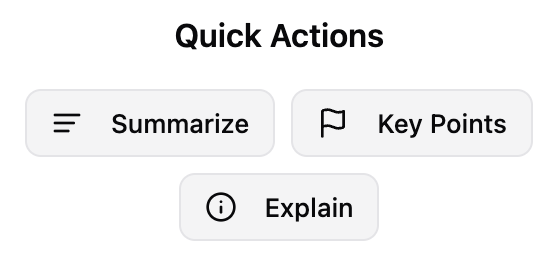
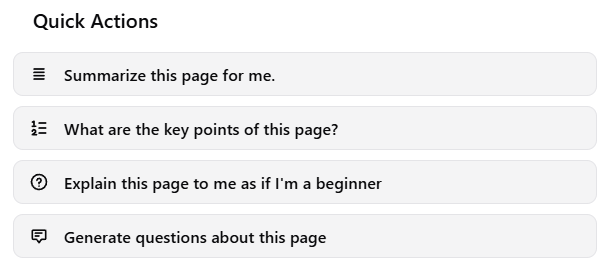
Update README.md

diff --git a/extension/scripts/components/state.js b/extension/scripts/components/state.js
@@ -188,7 +188,7 @@ export async function saveConfig(config) {
 export async function getNotesForUrl(url, offset = 0, limit = 20) {
   try {
     const timestamp = Date.now();
-    const apiUrl = `https://dev-capstone-2025.coccoc.com/api/notes?page_url=${encodeURIComponent(
+    const apiUrl = `http://localhost:3000/api/notes?page_url=${encodeURIComponent(
       url
     )}&offset=${offset}&limit=${limit}&_t=${timestamp}`;
 
@@ -219,7 +219,7 @@ export async function getAllNotes(offset = 0, limit = 20) {
   try {
     // Add timestamp để tránh cache
     const timestamp = Date.now();
-    const apiUrl = `https://dev-capstone-2025.coccoc.com/api/notes/all?offset=${offset}&limit=${limit}&_t=${timestamp}`;
+    const apiUrl = `http://localhost:3000/api/notes/all?offset=${offset}&limit=${limit}&_t=${timestamp}`;
 
     const response = await sendRequest(apiUrl);
 
@@ -246,16 +246,13 @@ export async function getAllNotes(offset = 0, limit = 20) {
 
 export async function saveNote(note) {
   try {
-    const response = await sendRequest(
-      "https://dev-capstone-2025.coccoc.com/api/notes",
-      {
-        method: "POST",
-        body: {
-          page_url: note.url,
-          note: note.content,
-        },
-      }
-    );
+    const response = await sendRequest("http://localhost:3000/api/notes", {
+      method: "POST",
+      body: {
+        page_url: note.url,
+        note: note.content,
+      },
+    });
     return response.data.id;
   } catch (error) {
     console.error("Error saving note:", error);
@@ -266,7 +263,7 @@ export async function saveNote(note) {
 export async function updateNote(id, content) {
   try {
     const response = await sendRequest(
-      `https://dev-capstone-2025.coccoc.com/api/notes/${id}`,
+      `http://localhost:3000/api/notes/${id}`,
       {
         method: "PUT",
         body: {
@@ -284,7 +281,7 @@ export async function updateNote(id, content) {
 export async function deleteNote(id) {
   try {
     const response = await sendRequest(
-      `https://dev-capstone-2025.coccoc.com/api/notes/${id}`,
+      `http://localhost:3000/api/notes/${id}`,
       {
         method: "DELETE",
       }

diff --git a/extension/scripts/components/anon-handler.js b/extension/scripts/components/anon-handler.js
@@ -11,16 +11,13 @@ export async function getFingerprint() {
 
 // Requests a new anon session from the server
 async function requestAnonSession(visitorId) {
-  const response = await sendRequest(
-    "https://dev-capstone-2025.coccoc.com/api/anon",
-    {
-      method: "POST",
-      headers: {
-        visitor: visitorId,
-      },
-      withSession: false,
-    }
-  );
+  const response = await sendRequest("http://localhost:3000/api/anon", {
+    method: "POST",
+    headers: {
+      visitor: visitorId,
+    },
+    withSession: false,
+  });
 
   return response.data;
 }

diff --git a/extension/scripts/components/ui-handler.js b/extension/scripts/components/ui-handler.js
@@ -521,13 +521,10 @@ async function showFeedbackModal(messageId) {
     });
 
     try {
-      const response = await sendRequest(
-        `https://dev-capstone-2025.coccoc.com/api/feedback`,
-        {
-          method: "POST",
-          body: { stars, comment, message_id: parseInt(messageId) },
-        }
-      );
+      const response = await sendRequest(`http://localhost:3000/api/feedback`, {
+        method: "POST",
+        body: { stars, comment, message_id: parseInt(messageId) },
+      });
 
       if (response.success) {
         updateToast(toastId, {

diff --git a/extension/scripts/components/auth-handler.js b/extension/scripts/components/auth-handler.js
@@ -2,7 +2,7 @@ import { clearUserSession, getAnonSession, getUserSession } from "./state.js";
 
 const GOOGLE_AUTH_URL = "https://accounts.google.com/o/oauth2/auth";
 const FACEBOOK_AUTH_URL = "https://www.facebook.com/v22.0/dialog/oauth";
-const SERVER_URL = "https://dev-capstone-2025.coccoc.com";
+const SERVER_URL = "http://localhost:3000";
 
 /**
  * Checks if the user is authenticated and if the session is valid.

diff --git a/extension/scripts/components/caption-handler.js b/extension/scripts/components/caption-handler.js
@@ -1,8 +1,8 @@
 import { sendRequest } from "./state.js";
 import idbHandler from "./idb-handler.js";
 
-const SERVER_URL = "https://dev-capstone-2025.coccoc.com";
-// const SERVER_URL = "https://dev-capstone-2025.coccoc.com";
+const SERVER_URL = "http://localhost:3000";
+// const SERVER_URL = "http://localhost:3000";
 const MAX_CAPTIONS_PER_PAGE = 5;
 
 /**

diff --git a/extension/scripts/background.js b/extension/scripts/background.js
@@ -12,7 +12,7 @@ import { handleCaptionImages } from "./components/caption-handler.js";
 import idbHandler from "./components/idb-handler.js";
 import chatHandler from "./components/chat-handler.js";
 
-const SERVER_URL = "https://dev-capstone-2025.coccoc.com";
+const SERVER_URL = "http://localhost:3000";
 
 const CHAT_QUERY_LIMIT = 20;
 //  first install

diff --git a/extension/scripts/components/api-handler.js b/extension/scripts/components/api-handler.js
@@ -15,7 +15,7 @@ import idbHandler from "./idb-handler.js";
 import chatHandler from "./chat-handler.js";
 import { formatPdfContent } from "./pdf-handler.js";
 
-const SERVER_URL = "https://dev-capstone-2025.coccoc.com";
+const SERVER_URL = "http://localhost:3000";
 
 /**
  * Generate response for query by sending a request to the backend server

diff --git a/extension/scripts/components/server-api.js b/extension/scripts/components/server-api.js
@@ -1,5 +1,5 @@
 // API handler for communicating with the backend server
-const SERVER_URL = "https://dev-capstone-2025.coccoc.com";
+const SERVER_URL = "http://localhost:3000";
 
 // Check server health
 export async function checkServerStatus() {

diff --git a/extension/scripts/components/chat-handler.js b/extension/scripts/components/chat-handler.js
@@ -1,6 +1,6 @@
 import { getUserSession, sendRequest } from "./state.js";
 
-const API_BASE = "https://dev-capstone-2025.coccoc.com/api/chats";
+const API_BASE = "http://localhost:3000/api/chats";
 
 /**
  * Create a new chat.

diff --git a/README.md b/README.md
@@ -19,7 +19,7 @@ CocBot is a Chrome-compatible browser extension designed to help users read and 
 
 ---
 
-## 🛠 Installation
+## 🛠 Installation Guide
 
 ### 1. Clone the Repository
 
@@ -65,6 +65,7 @@ QDRANT_ENABLE_RESCORING=true
 ```
 
 Create another `.env` file inside the root directory (same level with `docker-compose.yml`) with the following structure:
+
 ```
 # App service
 APP_NAME=capstone-2025
@@ -75,6 +76,7 @@ NGINX_HOST_HTTP_PORT=8080
 ```
 
 ### 3. Start the Backend Server
+
 **3.1 Run with NodeJS**
 
 ```bash
@@ -85,17 +87,20 @@ npm run dev
 
 **3.2 Run with Docker**
 
-Run the server 
+Run the server
+
 ```bash
 docker compose up
 ```
 
-Run the monitoring stack 
+Run the monitoring stack
+
 ```bash
 docker compose -f docker-compose.monitoring.yml up
 ```
 
 Run the server and monitoring at once
+
 ```bash
 docker compose -f docker-compose.yml -f docker-compose.monitoring.yml up
 ```
@@ -109,41 +114,61 @@ docker compose -f docker-compose.yml -f docker-compose.monitoring.yml up
 
 ---
 
-## 🚀 Usage
+## 🚀 User Guide
 
-### 1. Launch the Sidebar
+### 1. Launch the extension
 
-- Click the CocBot icon in the browser toolbar. The sidebar appears on the right.
+Click the "Extensions" icon on the browser's toolbar
+Click on the Briefly extension logo to open the AI assistant.
 
-  <img src="assets/home-panel.png" alt="Home Panel" width="400"/>
+  <img src="assets/logo.png" alt="Logo" width="48"/>
 
-### 2. Summarize and Ask Questions
+The assistant will be a sidebar that looks like this
 
-- Type queries into the chat bar.
+  <img src="assets/sidebar.png" alt="Sidebar" width="350"/>
 
-  <img src="assets/chat-bar.png" alt="Chat Bar" width="400"/>
+### 2. Using the toolbar
 
-- Use Quick Action buttons to generate summaries, explanations or extract highlights.
+The toolbar is where you can access all features of Briefly.
 
-  <img src="assets/quick-actions.png" alt="Quick Actions" width="400"/>
+  <img src="assets/toolbar.png" alt="Chatbar" width="450"/>
 
-### 3. View Extracted Content
+From left to right, they are:
 
-- Click **View Page Content** to explore a structured version of the page (text, images, tables, etc.).
+- Start a new chat
+- View chat history
+- Take notes
+- Account & Settings
+- Close assistant
 
-  <img src="assets/view-content-panel.png" alt="View Content" width="400"/>
+We suggest you start with signing first as some features are limited and only available to authenticated users
 
-### 4. Add Personal Notes
+  <img src="assets/authentication.png" alt="Chatbar" width="450"/>
 
-- Use the **Notes** tab to jot down personal insights per page. Notes are saved and associated with the page URL.
+### 3. Chatting & quick actions
 
-  <img src="assets/notes-panel.png" alt="Notes Panel" width="400"/>
+You can chat with the AI assistant using the chatbar
 
-### 5. Adjust AI Behavior
+  <img src="assets/chatbar.png" alt="Chatbar" width="350"/>
 
-- Visit **Configure** panel to choose Summary style and Max response length.
+Or you can click on the Quick Actions button to summarize the page,
+ask for key points, explaination or generate suggested question
 
-  <img src="assets/response-settings.png" alt="Response Settings UI" width="400"/>
+  <img src="assets/quick-actions.png" alt="Quick Action buttons" width="350"/>
+  
+  <img src="assets/suggested-questions.png" alt="Suggested questions" width="350"/>
+
+### 4. Access chat history
+
+To access chat history, click on the chat history icon on the toolbar at the
+
+### 5. Add Personal Notes
+
+Use the **Notes** tab to jot down personal insights per page. Notes are saved and associated with the page URL.
+
+### 6. Adjust AI Behavior
+
+Visit **Configure** panel to choose Summary style and Max response length.
 
 ---
 
